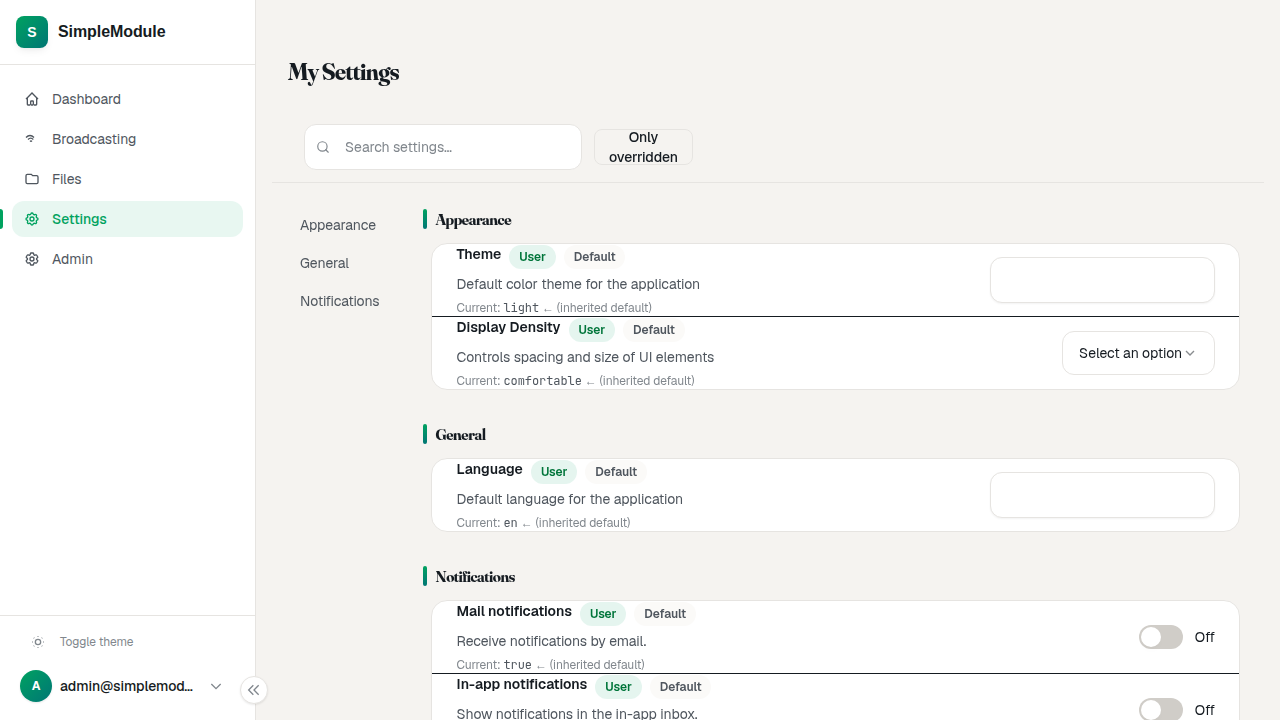
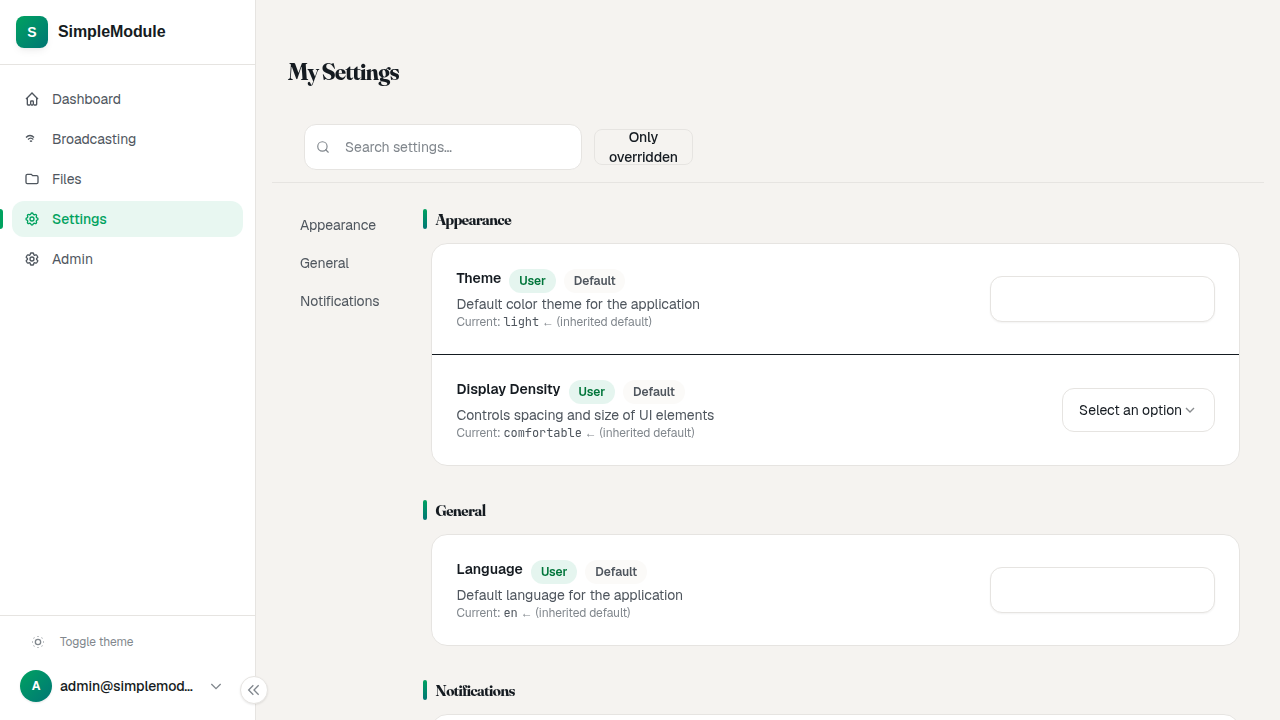
style(settings): give rows proper vertical breathing room

diff --git a/modules/Settings/src/SimpleModule.Settings/components/SettingRow.tsx b/modules/Settings/src/SimpleModule.Settings/components/SettingRow.tsx
@@ -83,8 +83,8 @@ export default function SettingRow({
       : undefined;
 
   const labelBlock = (
-    <div className="min-w-0 flex-1">
-      <div className="flex flex-wrap items-center gap-2 mb-1">
+    <div className="min-w-0 flex-1 space-y-1.5">
+      <div className="flex flex-wrap items-center gap-2">
         <Label htmlFor={definition.key} className="text-sm font-semibold text-text">
           {definition.displayName}
           {definition.required && (
@@ -107,7 +107,7 @@ export default function SettingRow({
         <p className="text-sm text-text-secondary max-w-prose">{definition.description}</p>
       )}
       {showResolvedValue && resolvedDisplay !== null && (
-        <p className="text-xs text-text-muted mt-1.5">
+        <p className="text-xs text-text-muted">
           {t(keys.Current)}:{' '}
           <span className="font-mono text-text-secondary">{resolvedDisplay}</span>{' '}
           <span className="text-text-muted">
@@ -141,7 +141,7 @@ export default function SettingRow({
 
   if (isWide) {
     return (
-      <div className="px-6 py-5">
+      <div className="px-6 py-6">
         <div className="flex items-start justify-between gap-4 mb-3">
           {labelBlock}
           {resetButton}
@@ -152,8 +152,8 @@ export default function SettingRow({
   }
 
   return (
-    <div className="px-6 py-5">
-      <div className="flex flex-col gap-3 sm:flex-row sm:items-center sm:gap-6">
+    <div className="px-6 py-6">
+      <div className="flex flex-col gap-4 sm:flex-row sm:items-center sm:gap-8">
         {labelBlock}
         <div className="flex items-center gap-3 shrink-0 sm:w-72">
           <div className="flex-1 min-w-0">{fieldBlock}</div>
